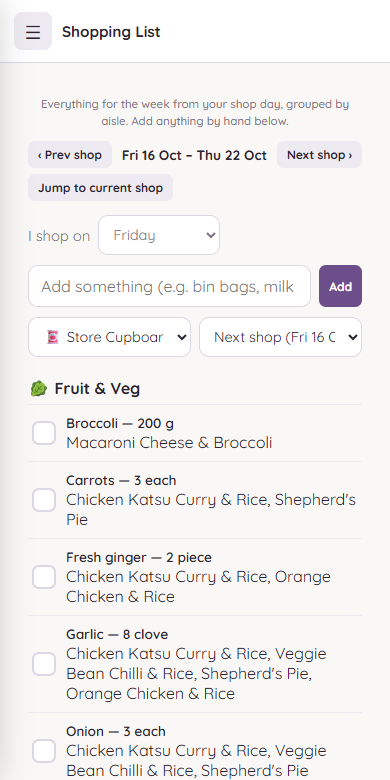
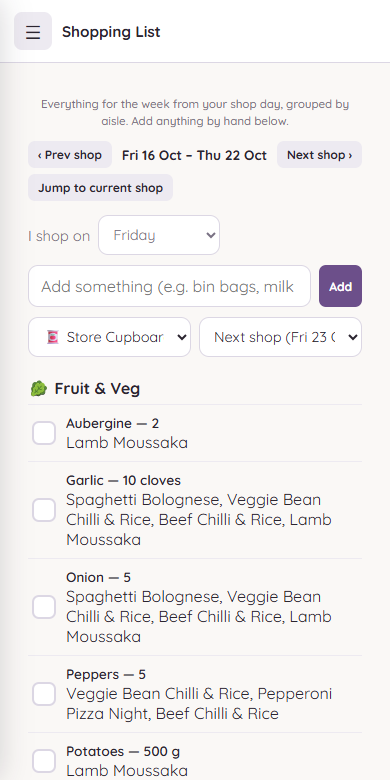
Update site

Changed region(s): [[0.0615, 0.5231, 0.9231, 1.0], [0.8, 0.4, 0.8615, 0.4615], [0.0615, 0.7692, 0.0923, 0.8]]

diff --git a/index.html b/index.html
@@ -3,10 +3,10 @@
 <head>
 <meta charset="utf-8">
 <meta name="viewport" content="width=device-width, initial-scale=1">
-<title>On the FridgeDoor · your family’s hub for meals, chores and plans</title>
-<meta name="description" content="A family planner for the whole household: meal plans that write your shopping list, a chore chart with stars, shared plans and reminders, and birthdays you won't forget. Free while in early access.">
-<meta property="og:title" content="On the FridgeDoor">
-<meta property="og:description" content="Your family’s hub for meals, chores and plans.">
+<title>On the FridgeDoor · No one carries it all</title>
+<meta name="description" content="A family planner that takes the household out of one person’s head: meals that write the shopping list, chores shared fairly, reminders for everyone and birthdays nobody forgets. Free while in early access.">
+<meta property="og:title" content="On the FridgeDoor: no one carries it all">
+<meta property="og:description" content="Meals, shopping, chores, plans and birthdays, shared with the whole household instead of held in one person’s head.">
 <meta property="og:image" content="https://onthefridgedoor.com/shot-today.png">
 <link rel="stylesheet" href="site.css">
 <link rel="icon" href="icon-192.png">
@@ -16,11 +16,11 @@
 
 <section class="hero">
   <div>
-    <h1>Everything that used to go on the fridge door, now on everyone’s phone.</h1>
-    <p class="lead">Meals and the shopping list, chores and stars, plans, reminders and birthdays, shared across your family’s devices.</p>
+    <h1>No one carries it all.</h1>
+    <p class="lead">Most homes run on one person’s memory: what’s for dinner, whose turn it is, when the bins go out, whose birthday is next. On the FridgeDoor takes it out of one head and shares it with the whole household.</p>
     <div class="cta">
       <a class="btn" href="https://app.onthefridgedoor.com/">Start for free</a>
-      <a class="btn ghost" href="#how">How it works</a>
+      <a class="btn ghost" href="#how">How it shares the load</a>
     </div>
     <p class="muted">Free while in early access. Works on phones, tablets and computers, even offline.</p>
   </div>
@@ -30,13 +30,26 @@
   </div>
 </section>
 
+<section class="familiar">
+  <h2>Sound familiar?</h2>
+  <ul>
+    <li>“What’s for dinner?” gets asked every day, and answered by the same person.</li>
+    <li>You’re the only one who knows the bins go out tomorrow.</li>
+    <li>You remember the birthday, buy the present and post the card.</li>
+    <li>Everyone helps once they’re asked. You’re the one doing the asking.</li>
+  </ul>
+  <p class="muted">It isn’t the jobs that wear you down. It’s keeping all of them in your head.</p>
+</section>
+
 <section class="features" id="how">
-  <div class="card"><div class="ico">🍽</div><h3>Meals that write the list</h3><p>Plan four weeks of dinners from 140 family recipes or your own. The shopping list builds itself, grouped by aisle and scaled to your household.</p></div>
-  <div class="card"><div class="ico">🧹</div><h3>Chores that suit each child</h3><p>A chore chart that knows ages, takes turns fairly and gives stars towards rewards. Babies get none, of course.</p></div>
-  <div class="card"><div class="ico">🗓</div><h3>One family calendar</h3><p>Plans, tasks and bin day in one place, with your Google, Outlook or iCloud calendars alongside. A morning summary and an evening heads-up.</p></div>
-  <div class="card"><div class="ico">🎂</div><h3>Birthdays and celebrations</h3><p>Reminders to buy the present and post the card in time, and gift ideas per person. Choose the celebrations your family marks.</p></div>
-  <div class="card"><div class="ico">🧻</div><h3>Never run out</h3><p>Tap when the toilet roll is low and it goes on the next shop. Suggestions for babies and children as they grow.</p></div>
-  <div class="card"><div class="ico">📣</div><h3>Nudges</h3><p>Send “Dinner’s ready” or “Time for bed” to a family member’s device, and they can reply with one tap.</p></div>
+  <h2 class="features-h">How it shares the load</h2>
+  <div class="card"><div class="ico">🙋</div><h3>Everyone has their own day</h3><p>Today shows each person their plans, chores and dinner, so nobody needs to ask. Children see theirs on their own phone or tablet, set up without an email.</p></div>
+  <div class="card"><div class="ico">🍽</div><h3>Dinner, already decided</h3><p>A four-week meal plan from 140 family recipes or your own. The shopping list writes itself, grouped by aisle, so anyone can do the shop.</p></div>
+  <div class="card"><div class="ico">🧹</div><h3>Chores that hand themselves out</h3><p>Shared fairly, taking turns, matched to each child’s age, with stars towards rewards. No more deciding who does what.</p></div>
+  <div class="card"><div class="ico">🔔</div><h3>Reminders reach the right person</h3><p>A morning summary, an evening heads-up and a nudge before each plan, on each person’s own phone. Send “Dinner’s ready” and get a one-tap reply.</p></div>
+  <div class="card"><div class="ico">🎂</div><h3>Birthdays nobody forgets</h3><p>Reminders to buy the present and post the card in time, gift ideas for each person, and the celebrations your family marks.</p></div>
+  <div class="card"><div class="ico">🧻</div><h3>Running low? One tap</h3><p>Anyone can put toilet roll or nappies on the next shop. Nothing to remember, nothing to write down.</p></div>
+  <div class="card"><div class="ico">📨</div><h3>Bring everyone in</h3><p>Invite another parent with a link, and connect a child’s tablet in a minute. Works for any household: two parents, one parent, or grandparents helping out.</p></div>
 </section>
 
 <section class="promise">
@@ -45,6 +58,12 @@
     <p>Plans live on your own devices. Switch on sync and a private copy is shared only with your household. No adverts, no tracking, nothing sold. Children don’t have accounts: parents choose which devices the app is on, and we only ever ask for a child’s birth month and year.</p>
     <p><a href="privacy.html">Read the privacy policy</a></p>
   </div>
+</section>
+
+<section class="closing">
+  <h2>Hand some of it over.</h2>
+  <p class="muted">Set up takes about three minutes. Bring everyone else in when you’re ready.</p>
+  <a class="btn" href="https://app.onthefridgedoor.com/">Start for free</a>
 </section>
 
 <footer><span>© 2026 On the FridgeDoor</span><a href="privacy.html">Privacy</a><a href="terms.html">Terms</a><a href="mailto:hello@onthefridgedoor.com">hello@onthefridgedoor.com</a></footer>

diff --git a/site.css b/site.css
@@ -33,3 +33,12 @@ footer{ max-width:1040px; margin:0 auto; padding:24px 20px 40px; color:var(--mut
 .features .ico{ font-size:28px; }
 .promise{ max-width:1040px; margin:0 auto; padding:0 20px; }
 @media (max-width:760px){ .hero{ grid-template-columns:1fr; } h1{ font-size:1.7rem; } }
+/* "Sound familiar?" and closing call to action */
+.familiar{ max-width:760px; margin:0 auto; padding:24px 20px 8px; }
+.familiar h2{ margin:0 0 10px; }
+.familiar ul{ list-style:none; padding:0; margin:0 0 12px; display:grid; gap:10px; }
+.familiar li{ background:var(--card); border:1px solid var(--line); border-left:4px solid var(--accent); border-radius:12px; padding:12px 14px; }
+.features-h{ grid-column:1 / -1; margin:8px 0 0; }
+.closing{ max-width:760px; margin:0 auto; padding:32px 20px 8px; text-align:center; }
+.closing h2{ font-size:1.6rem; margin:0 0 6px; }
+.closing .btn{ margin-top:8px; }
